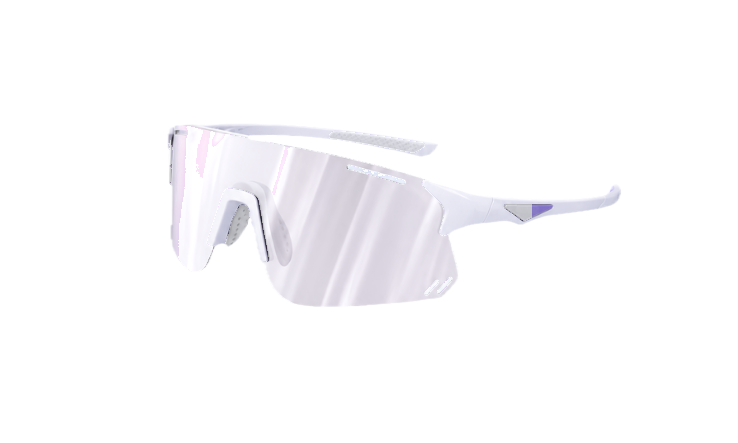
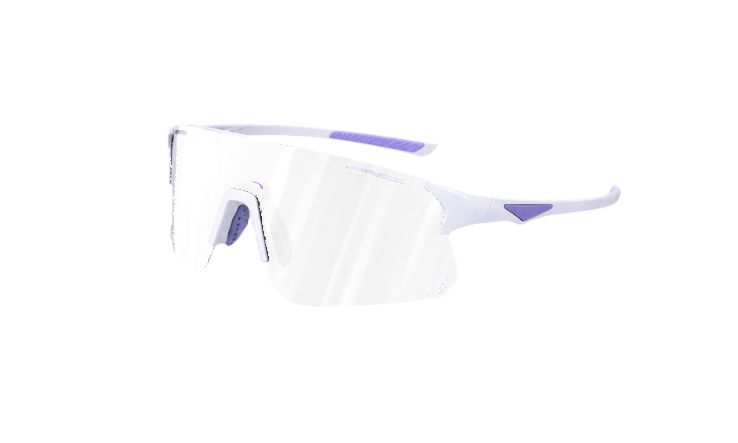
Default lens slider to full purple; regenerate clear-lens image to keep frame accents purple and remove residual pink from lens

Changed region(s): [[0.2805, 0.2935, 0.6233, 0.7043], [0.2182, 0.2935, 0.2805, 0.5869], [0.6856, 0.4402, 0.748, 0.4989]]

diff --git a/src/app/giveaway/page.tsx b/src/app/giveaway/page.tsx
@@ -124,7 +124,7 @@ export default function GiveawayPage() {
   const [loading, setLoading] = useState(false);
   const [phoneError, setPhoneError] = useState("");
   const [agreed, setAgreed] = useState(false);
-  const [lensTint, setLensTint] = useState(0); // 0 = transparent, 100 = full purple
+  const [lensTint, setLensTint] = useState(100); // 0 = transparent, 100 = full purple
 
   const countdown = useCountdown(DEADLINE);
 
